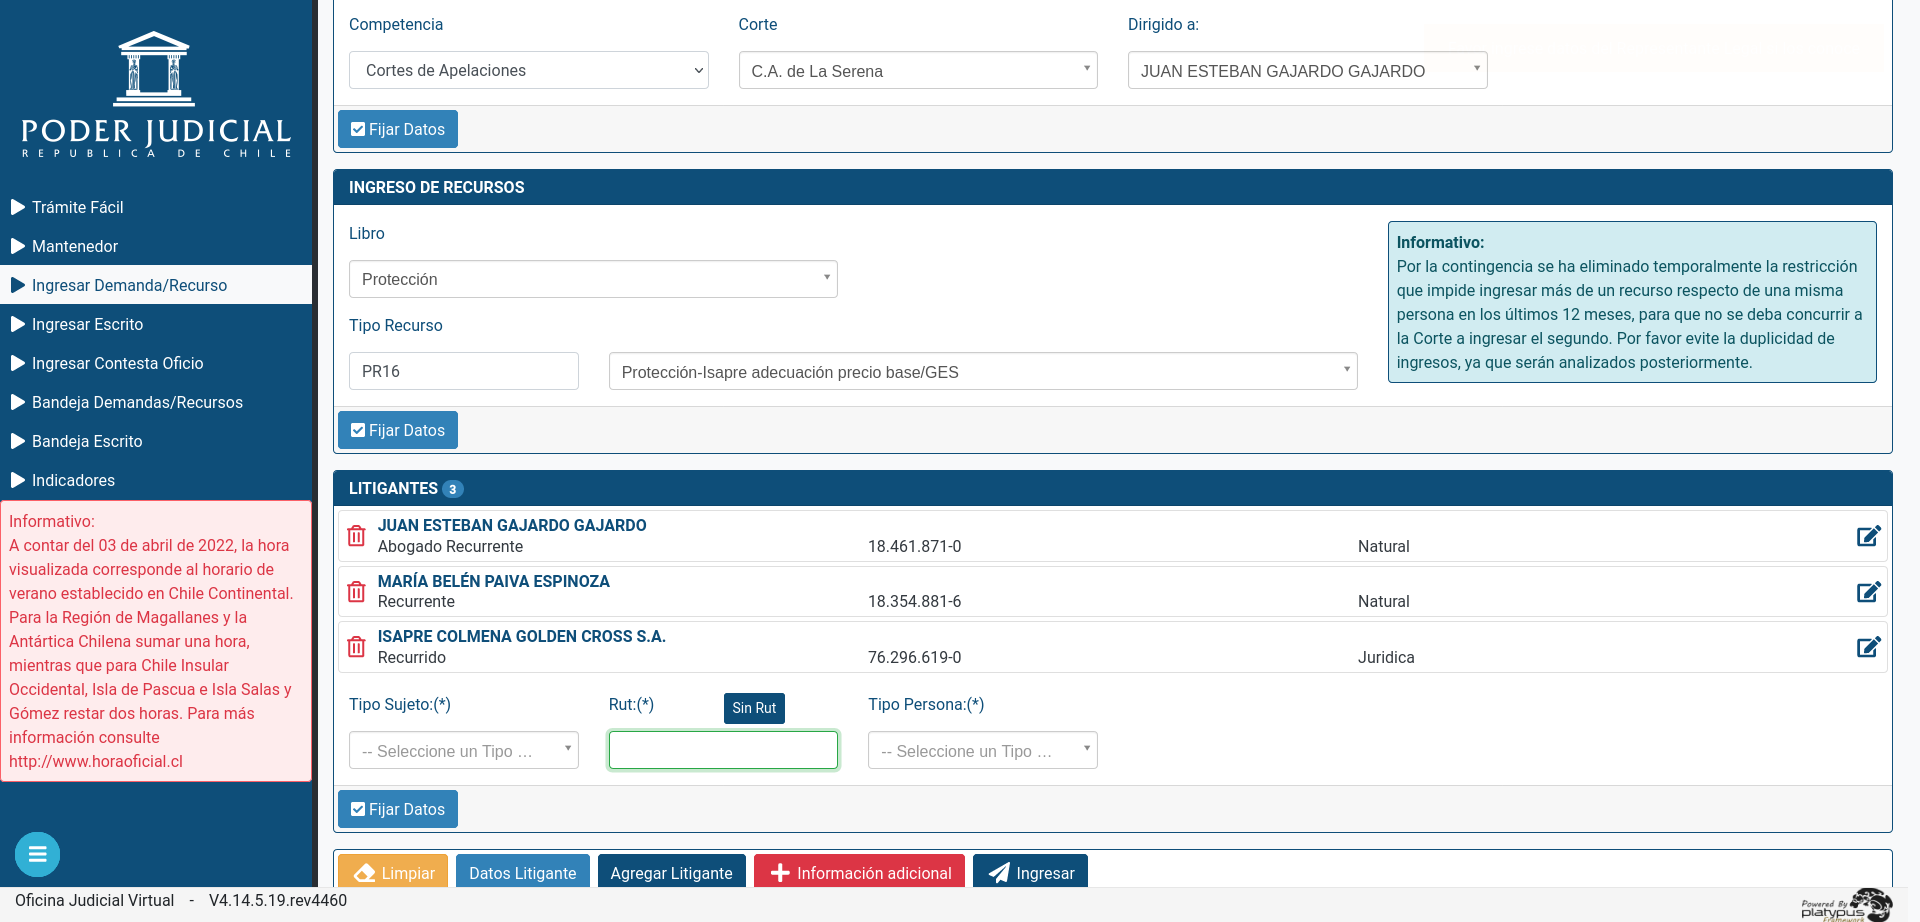
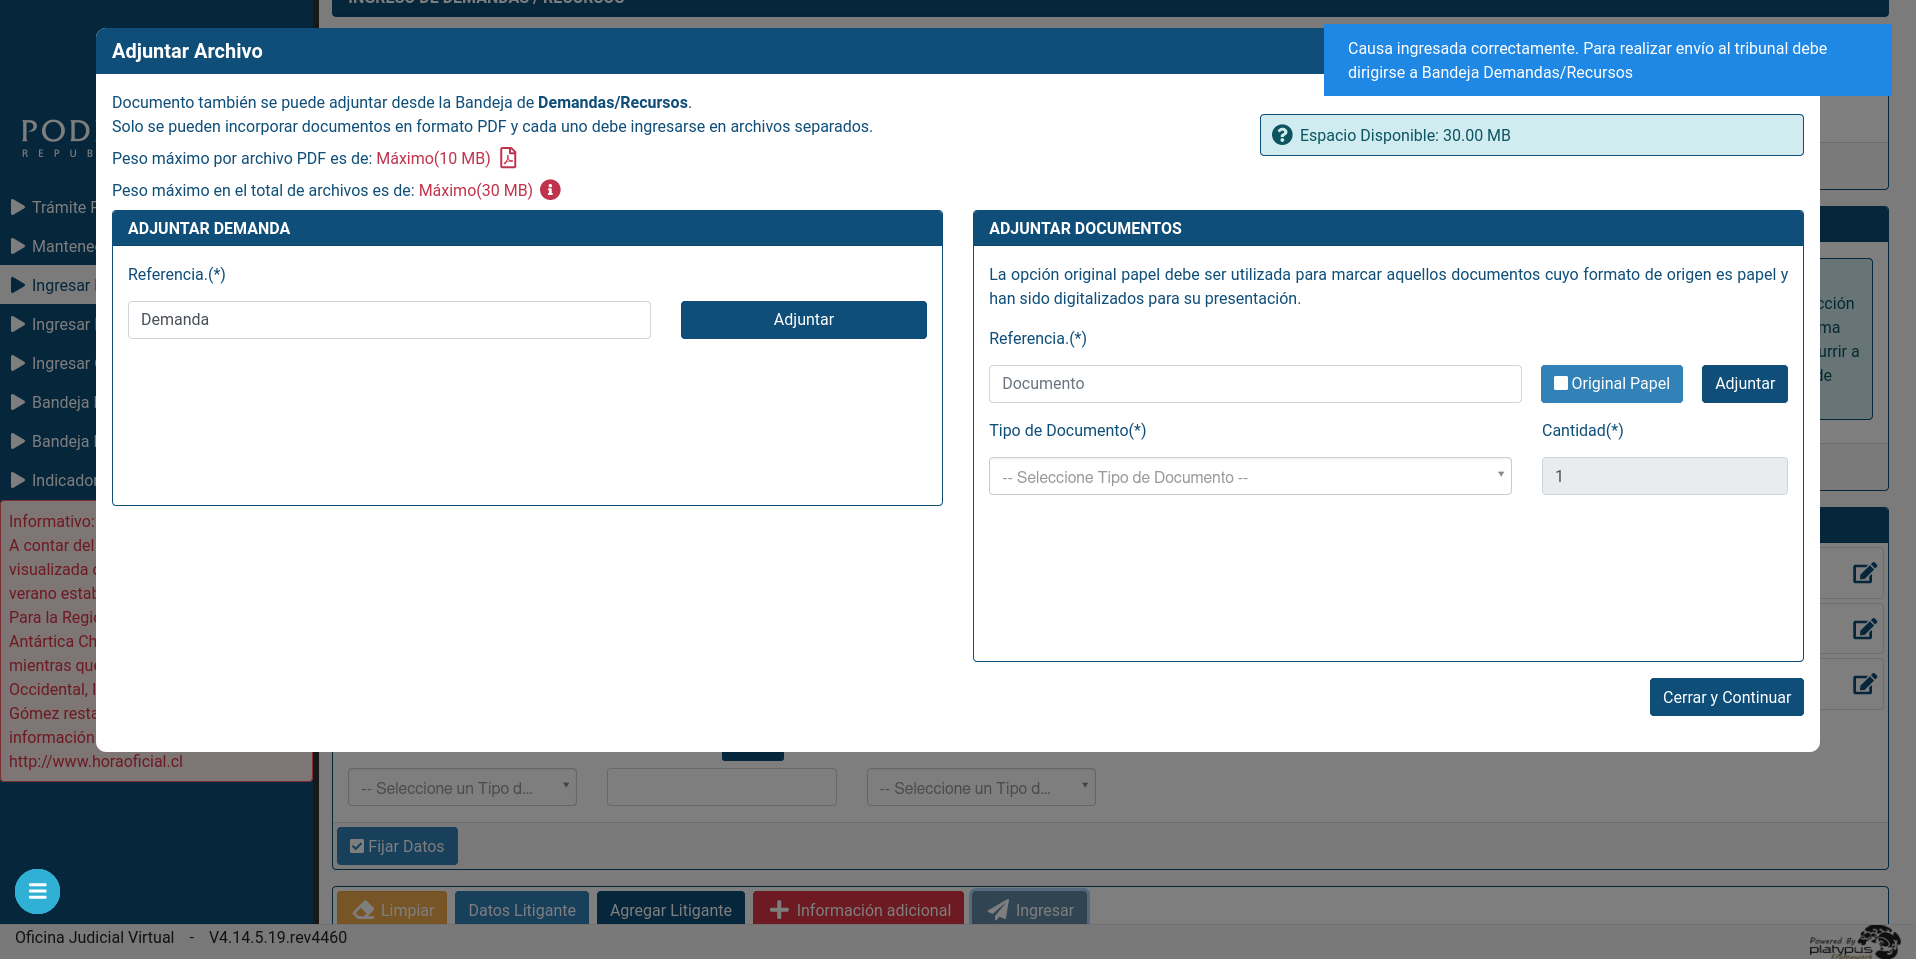
Working till ingreso adjuntos

diff --git a/rp_script/utils.py b/rp_script/utils.py
@@ -30,7 +30,7 @@ class SeleniumBot():
         # TODO strealth browser
 
         self.browser.get(url)
-    
+
     def login(self, rut: str = None, passwd: str = None):
         # Intro homepage
         dropdown_btn = WebDriverWait(self.browser, timeout=10).until(
@@ -57,15 +57,16 @@ class SeleniumBot():
         login.click()
 
         print("Logged In...")
-    
+
     def goto_ingreso_dda_escrito(self):
         # Get current tab
-        first_tab_handle = self.browser.current_window_handle 
+        first_tab_handle = self.browser.current_window_handle
         print(f"first table handle: {str(first_tab_handle)}")
 
         # Ingreso dda/escrito
         goto_search = WebDriverWait(self.browser, timeout=10).until(
-            EC.element_to_be_clickable(self.browser.find_element(By.XPATH, "//a[@onclick='ingresoDemanYEscritos();']"))
+            EC.element_to_be_clickable(self.browser.find_element(
+                By.XPATH, "//a[@onclick='ingresoDemanYEscritos();']"))
         )
         goto_search.click()  # Opens new tab
 
@@ -76,23 +77,26 @@ class SeleniumBot():
         second_tab_handle = self.browser.current_window_handle
         print(f"second table handle: {str(second_tab_handle)}")
 
-        # Ingreso recurso menu btn 
+        # Ingreso recurso menu btn
         ingreso_form_display_btn = WebDriverWait(self.browser, timeout=25).until(
-            EC.element_to_be_clickable(self.browser.find_element(By.XPATH, "//div[@class='list-group-item list-group-item-action p-2 pg_menu_lt'][3]"))
+            EC.element_to_be_clickable(self.browser.find_element(
+                By.XPATH, "//div[@class='list-group-item list-group-item-action p-2 pg_menu_lt'][3]"))
         )
-        self.browser.execute_script("arguments[0].scrollIntoView();", ingreso_form_display_btn)
-        self.browser.execute_script("arguments[0].click();", ingreso_form_display_btn)
+        self.browser.execute_script(
+            "arguments[0].scrollIntoView();", ingreso_form_display_btn)
+        self.browser.execute_script(
+            "arguments[0].click();", ingreso_form_display_btn)
 
         time.sleep(5)  # TODO - randomize wait
 
     def fill_form(self):
         print("Start filling form for upload...")
-        
 
         # Opened ingreso form
         # --- Competencia
         competencia_dropdown = WebDriverWait(self.browser, timeout=25).until(
-            EC.element_to_be_clickable(self.browser.find_element(By.XPATH, "//select[@class='form-control']"))
+            EC.element_to_be_clickable(self.browser.find_element(
+                By.XPATH, "//select[@class='form-control']"))
         )
         competencia_dropdown.click()
         competencia = Select(competencia_dropdown)
@@ -100,92 +104,144 @@ class SeleniumBot():
 
         # --- Corte
         corte_dropdown = WebDriverWait(self.browser, timeout=25).until(
-            EC.element_to_be_clickable(self.browser.find_element(By.XPATH, "//div[@id='s2id_autogen21']/a[1]"))
+            EC.element_to_be_clickable(self.browser.find_element(
+                By.XPATH, "//div[@id='s2id_autogen21']/a[1]"))
         )
         corte_dropdown.click()
         # corte = Select(corte_dropdown)
         # corte.select_by_visible_text("C.A. de La Serena")
-        corte = self.browser.find_element(By.XPATH, "//div[@id='select2-result-label-27']")
+        corte = self.browser.find_element(
+            By.XPATH, "//div[@id='select2-result-label-27']")
         corte.click()
 
-        fijar_competencia_btn = self.browser.find_element(By.XPATH, "//input[@id='id_check_fijar_mod_tribunal']")
+        fijar_competencia_btn = self.browser.find_element(
+            By.XPATH, "//input[@id='id_check_fijar_mod_tribunal']")
         fijar_competencia_btn.click()
 
         libro_dropdown = WebDriverWait(self.browser, timeout=10).until(
-            EC.element_to_be_clickable(self.browser.find_element(By.XPATH, "//div[@id='s2id_autogen40']/a[1]"))
+            EC.element_to_be_clickable(self.browser.find_element(
+                By.XPATH, "//div[@id='s2id_autogen40']/a[1]"))
         )
         libro_dropdown.click()
-        libro = self.browser.find_element(By.XPATH, "//div[@id='select2-result-label-50']")
+        libro = self.browser.find_element(
+            By.XPATH, "//div[@id='select2-result-label-50']")
         libro.click()
 
         tipo_recurso_dropdown = WebDriverWait(self.browser, timeout=10).until(
-            EC.element_to_be_clickable(self.browser.find_element(By.XPATH, "//div[@id='s2id_autogen42']/a[1]"))
+            EC.element_to_be_clickable(self.browser.find_element(
+                By.XPATH, "//div[@id='s2id_autogen42']/a[1]"))
         )
         tipo_recurso_dropdown.click()
-        tipo_recurso = self.browser.find_element(By.XPATH, "//div[@id='select2-result-label-57']")
+        tipo_recurso = self.browser.find_element(
+            By.XPATH, "//div[@id='select2-result-label-57']")
         tipo_recurso.click()
 
-        fijar_materia_btn = self.browser.find_element(By.XPATH, "//input[@id='id_check_fijar_mod_materia']")
+        fijar_materia_btn = self.browser.find_element(
+            By.XPATH, "//input[@id='id_check_fijar_mod_materia']")
         fijar_materia_btn.click()
 
         # --- Litigante - Ab Recurrente
         tipo_sujeto_dropdown = WebDriverWait(self.browser, timeout=10).until(
-            EC.element_to_be_clickable(self.browser.find_element(By.XPATH, "//div[@id='s2id_autogen59']/a[1]"))
+            EC.element_to_be_clickable(self.browser.find_element(
+                By.XPATH, "//div[@id='s2id_autogen59']/a[1]"))
         )
         tipo_sujeto_dropdown.click()
-        ab_recurrente = self.browser.find_element(By.XPATH, "//div[@id='select2-result-label-65']")
+        ab_recurrente = self.browser.find_element(
+            By.XPATH, "//div[@id='select2-result-label-65']")
         ab_recurrente.click()
 
         rut_input = WebDriverWait(self.browser, timeout=10).until(
-            EC.element_to_be_clickable(self.browser.find_element(By.XPATH, "//input[@data-bind='value: rutSel, disable:bloqueoRutComp']"))
+            EC.element_to_be_clickable(self.browser.find_element(
+                By.XPATH, "//input[@data-bind='value: rutSel, disable:bloqueoRutComp']"))
         )
         rut_input.send_keys(str(os.environ['rut']) + Keys.RETURN)
 
         # self.browser.implicitly_wait(5)
         time.sleep(5)  # TODO - randomize wait
 
-        fijar_datos_ab_recurrente_btn = self.browser.find_element(By.XPATH, "//input[@id='id_check_fijar_mod_lit']")
+        fijar_datos_ab_recurrente_btn = self.browser.find_element(
+            By.XPATH, "//input[@id='id_check_fijar_mod_lit']")
         fijar_datos_ab_recurrente_btn.click()
 
-        agregar_litigante_btn = self.browser.find_element(By.XPATH, "//button[@data-bind='click: validarIngresoLitigante']")
+        agregar_litigante_btn = self.browser.find_element(
+            By.XPATH, "//button[@data-bind='click: validarIngresoLitigante']")
         agregar_litigante_btn.click()
 
         # --- Litigante - Recurrente
         tipo_sujeto_dropdown = WebDriverWait(self.browser, timeout=10).until(
-            EC.element_to_be_clickable(self.browser.find_element(By.XPATH, "//div[@id='s2id_autogen59']/a[1]"))
+            EC.element_to_be_clickable(self.browser.find_element(
+                By.XPATH, "//div[@id='s2id_autogen59']/a[1]"))
         )
         tipo_sujeto_dropdown.click()
-        recurrente = self.browser.find_element(By.XPATH, "//div[@id='select2-result-label-71']")
+        recurrente = self.browser.find_element(
+            By.XPATH, "//div[@id='select2-result-label-71']")
         recurrente.click()
 
         rut_input = WebDriverWait(self.browser, timeout=10).until(
-            EC.element_to_be_clickable(self.browser.find_element(By.XPATH, "//input[@data-bind='value: rutSel, disable:bloqueoRutComp']"))
+            EC.element_to_be_clickable(self.browser.find_element(
+                By.XPATH, "//input[@data-bind='value: rutSel, disable:bloqueoRutComp']"))
         )
         rut_input.send_keys("18.354.881-6" + Keys.RETURN)  # TODO fix hardcode
 
         time.sleep(5)  # TODO - randomize wait
 
-        agregar_litigante_btn = self.browser.find_element(By.XPATH, "//button[@data-bind='click: validarIngresoLitigante']")
-        self.browser.execute_script("arguments[0].scrollIntoView();", agregar_litigante_btn)
-        self.browser.execute_script("arguments[0].click();", agregar_litigante_btn)
+        agregar_litigante_btn = self.browser.find_element(
+            By.XPATH, "//button[@data-bind='click: validarIngresoLitigante']")
+        self.browser.execute_script(
+            "arguments[0].scrollIntoView();", agregar_litigante_btn)
+        self.browser.execute_script(
+            "arguments[0].click();", agregar_litigante_btn)
 
         # --- Litigante - Recurrido
         tipo_sujeto_dropdown = WebDriverWait(self.browser, timeout=10).until(
-            EC.element_to_be_clickable(self.browser.find_element(By.XPATH, "//div[@id='s2id_autogen59']/a[1]"))
+            EC.element_to_be_clickable(self.browser.find_element(
+                By.XPATH, "//div[@id='s2id_autogen59']/a[1]"))
         )
         tipo_sujeto_dropdown.click()
-        recurrida = self.browser.find_element(By.XPATH, "//div[@id='select2-result-label-76']")
+        recurrida = self.browser.find_element(
+            By.XPATH, "//div[@id='select2-result-label-76']")
         recurrida.click()
 
         rut_input = WebDriverWait(self.browser, timeout=10).until(
-            EC.element_to_be_clickable(self.browser.find_element(By.XPATH, "//input[@data-bind='value: rutSel, disable:bloqueoRutComp']"))
+            EC.element_to_be_clickable(self.browser.find_element(
+                By.XPATH, "//input[@data-bind='value: rutSel, disable:bloqueoRutComp']"))
         )
         rut_input.send_keys("76.296.619-0" + Keys.RETURN)  # TODO fix hardcode
 
         time.sleep(5)  # TODO - randomize wait
 
-        self.browser.execute_script("arguments[0].scrollIntoView();", agregar_litigante_btn)
-        self.browser.execute_script("arguments[0].click();", agregar_litigante_btn)
+        self.browser.execute_script(
+            "arguments[0].scrollIntoView();", agregar_litigante_btn)
+        self.browser.execute_script(
+            "arguments[0].click();", agregar_litigante_btn)
+
+        informacion_adicional_btn = self.browser.find_element(
+            By.XPATH, "//button[@data-bind='click: showModalInformacionAdicional , enable: bloqueoInfoAdicional()']")
+        informacion_adicional_btn.click()
+
+        precio_base_checkbox = self.browser.find_element(
+            By.XPATH, "//input[@data-bind='checked: checkPrecioBase']")
+        precio_base_checkbox.click()
+
+        time.sleep(3)  # TODO - randomize wait
+
+        pb_input = self.browser.find_element(By.ID, "desdePrecioBase")
+        pb_input.send_keys("2.87")  # TODO fix hardcode
+
+        pbr_input = self.browser.find_element(By.ID, "hastaPrecioBase")
+        pbr_input.send_keys("3.9" + Keys.RETURN)
+
+        agregar_info_adicional_btn = self.browser.find_element(
+            By.XPATH, "//button[@data-bind='click: agregarInformacionAdicional, enable: validDesdeHasta']")
+        agregar_info_adicional_btn.click()
+
+        time.sleep(3)  # TODO - randomize wait
+
+        ingresar_causa_btn = self.browser.find_element(
+            By.XPATH, "//button[@data-bind='click: ingresarCausa, enable: validCausaLitiganteComp() ']")
+        ingresar_causa_btn.click()
+
+        time.sleep(3)  # TODO - randomize wait
 
         # Proof of work
         self.browser.save_screenshot("proof_of_work.png")

diff --git a/rp_script/main.py b/rp_script/main.py
@@ -7,6 +7,7 @@ from pprint import pprint
 
 from utils import SeleniumBot
 
+
 def main():
     # TODO GET DATA FUNC
     # --- Open csv and read all clients data
@@ -29,7 +30,7 @@ def main():
         # "TERMINADA",
     ]]
 
-    # --- Filter df by column value == True 
+    # --- Filter df by column value == True
     df_filtered = df[df["INGRESAR"]]
 
     # --- df to list of dicts, each dict element in list is a different client's data
@@ -52,7 +53,7 @@ def main():
     #         'REP_ISAPRE': client_data['REP ISAPRE'],
     #         'DOMICILIO_ISAPRE': client_data['DOMICILIO ISAPRE'],
     #         'PLAN': client_data['PLAN'],
-    #         'ALZA': client_data['ALZA'], 
+    #         'ALZA': client_data['ALZA'],
     #         'FECHA_CARTA': client_data['FECHA CARTA'],
     #         'PB': client_data['PB'],
     #         'PBR': client_data['PBR'],
@@ -64,7 +65,7 @@ def main():
     #     # --- Open template docx file
     #     doc_template = DocxTemplate("template.docx")
 
-    #     # --- Create new client's docx by parsing template 
+    #     # --- Create new client's docx by parsing template
     #     doc_template.render(context)
 
     #     # --- Save client's files (docx & pdf)
@@ -75,12 +76,11 @@ def main():
 
     #     # --- Converts docx into pdf API. Note: secrey key in scripting env
     #     secret_key = str(os.environ["convert_api_secret_key"])
-    #     convertapi.api_secret = secret_key 
+    #     convertapi.api_secret = secret_key
 
     #     pdf = convertapi.convert('pdf', {'File': docx_file_path})
     #     pdf_file_path = f"pdf_autoescrito/{file_name}.pdf"
     #     pdf.file.save(pdf_file_path)
- 
 
     URL = "https://oficinajudicialvirtual.pjud.cl/home/index.php"
     RUT = os.environ["rut"]
@@ -92,7 +92,8 @@ def main():
     robot = SeleniumBot(url=URL)
     robot.login(rut=RUT, passwd=PASSWD)
     robot.goto_ingreso_dda_escrito()
-    robot.fill_form()
+    robot.fill_form()  # Pass in data
+
 
 if __name__ == "__main__":
     main()
